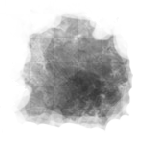
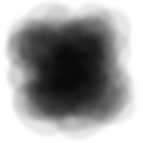
Meteor. smoke updating

diff --git a/src/gameApp/magic/Meteor.ts b/src/gameApp/magic/Meteor.ts
@@ -175,7 +175,7 @@ export class Meteor extends Magic{
 
 		super.logic(drawsDiffMs, buildings, monsters, units, bottomShiftBorder);
 
-		this.smokeElements.forEach(x => x.leftTimeMs -= drawsDiffMs);
+		this.smokeElements.forEach(x => x.logic(drawsDiffMs));
 		this.smokeElements = this.smokeElements.filter(x => x.leftTimeMs > 0);
 
 		if(this.isEndLogic){
@@ -205,12 +205,14 @@ export class Meteor extends Magic{
 				.forEach(monster => monster.applyDamage(Meteor.damageInAirSecond * drawsDiffMs / 1000));
 
 			if(this.lastTimeCreatingSmoke < this.lastTimeCreatingSmoke + 1000 / Meteor.smokeFrequencyInSecond){
-				let smokeDistanceY = Helper.getRandom(10, this.height);
+				let smokeDistanceY = Helper.getRandom(this.height / 2, this.height);
 				let smokeDistanceX = Helper.getRandom(1, this.width - 1);
 				let smokeX = centerX + Math.cos(this.angle * Math.PI / 180) * (smokeDistanceX - this.width / 2);
 				let smokeY = centerY + Math.sin(this.angle * Math.PI / 180) * (smokeDistanceY - this.width / 2);
 				let smokeWidth = this.width / 2;
-				this.smokeElements.push(new MovingObject(smokeX, smokeY, smokeWidth, smokeWidth, Meteor.smokeLifeTimeMs / this.speed, 0, 0, this.angle));
+				let dx = (Math.random() - 0.5) * 100;
+				let dy = (Math.random() - 0.5) * 100;
+				this.smokeElements.push(new MovingObject(smokeX - smokeWidth / 2, smokeY, smokeWidth, smokeWidth, Meteor.smokeLifeTimeMs / this.speed, dx, dy, this.angle));
 				this.lastTimeCreatingSmoke = Date.now();
 			}
 		}
@@ -239,6 +241,12 @@ export class Meteor extends Magic{
 			return;
 		}
 
+		this.smokeElements.forEach(smoke => {
+			Draw.ctx.globalAlpha = smoke.leftTimeMs / smoke.initialLeftTimeMs;
+			Draw.ctx.drawImage(Meteor.imageSmoke, smoke.x, smoke.y, smoke.width, smoke.height);
+			Draw.ctx.globalAlpha = 1;
+		});
+
 		if(!this.isEndLogic){
 			Draw.ctx.setTransform(1, 0, 0, 1, this.x + this.width / 2, this.y + this.height / 2); 
 			Draw.ctx.rotate(this.angle * Math.PI / 180);
@@ -251,17 +259,6 @@ export class Meteor extends Magic{
 			let size = this.width * Meteor.damageEndSizeKof * 2;
 			this.explosionAnimation.draw(drawsDiffMs, isGameOver, this.intersectionWithEarch.x - size / 2, this.intersectionWithEarch.y - size / 2, size, size);
 		}
-
-		this.smokeElements.forEach(smoke => {
-			Draw.ctx.globalAlpha = smoke.leftTimeMs / smoke.initialLeftTimeMs;
-			Draw.ctx.setTransform(1, 0, 0, 1, smoke.x + smoke.width / 2, smoke.y + smoke.height / 2); 
-			Draw.ctx.rotate(smoke.rotate * Math.PI / 180);
-			Draw.ctx.drawImage(Meteor.imageSmoke, -smoke.width / 2, -smoke.height / 2, smoke.width, smoke.height);
-			Draw.ctx.setTransform(1, 0, 0, 1, 0, 0);
-			Draw.ctx.rotate(0);
-			Draw.ctx.globalAlpha = 1;
-			//Draw.ctx.drawImage(Meteor.imageSmoke, smoke.x, smoke.y, smoke.width, smoke.height);
-		});
 	}
 
 	displayMagicOnCursor(drawsDiffMs: number, pointStart: Point|null, cursorMagicWidth: number, cursorMagicHeight: number){
